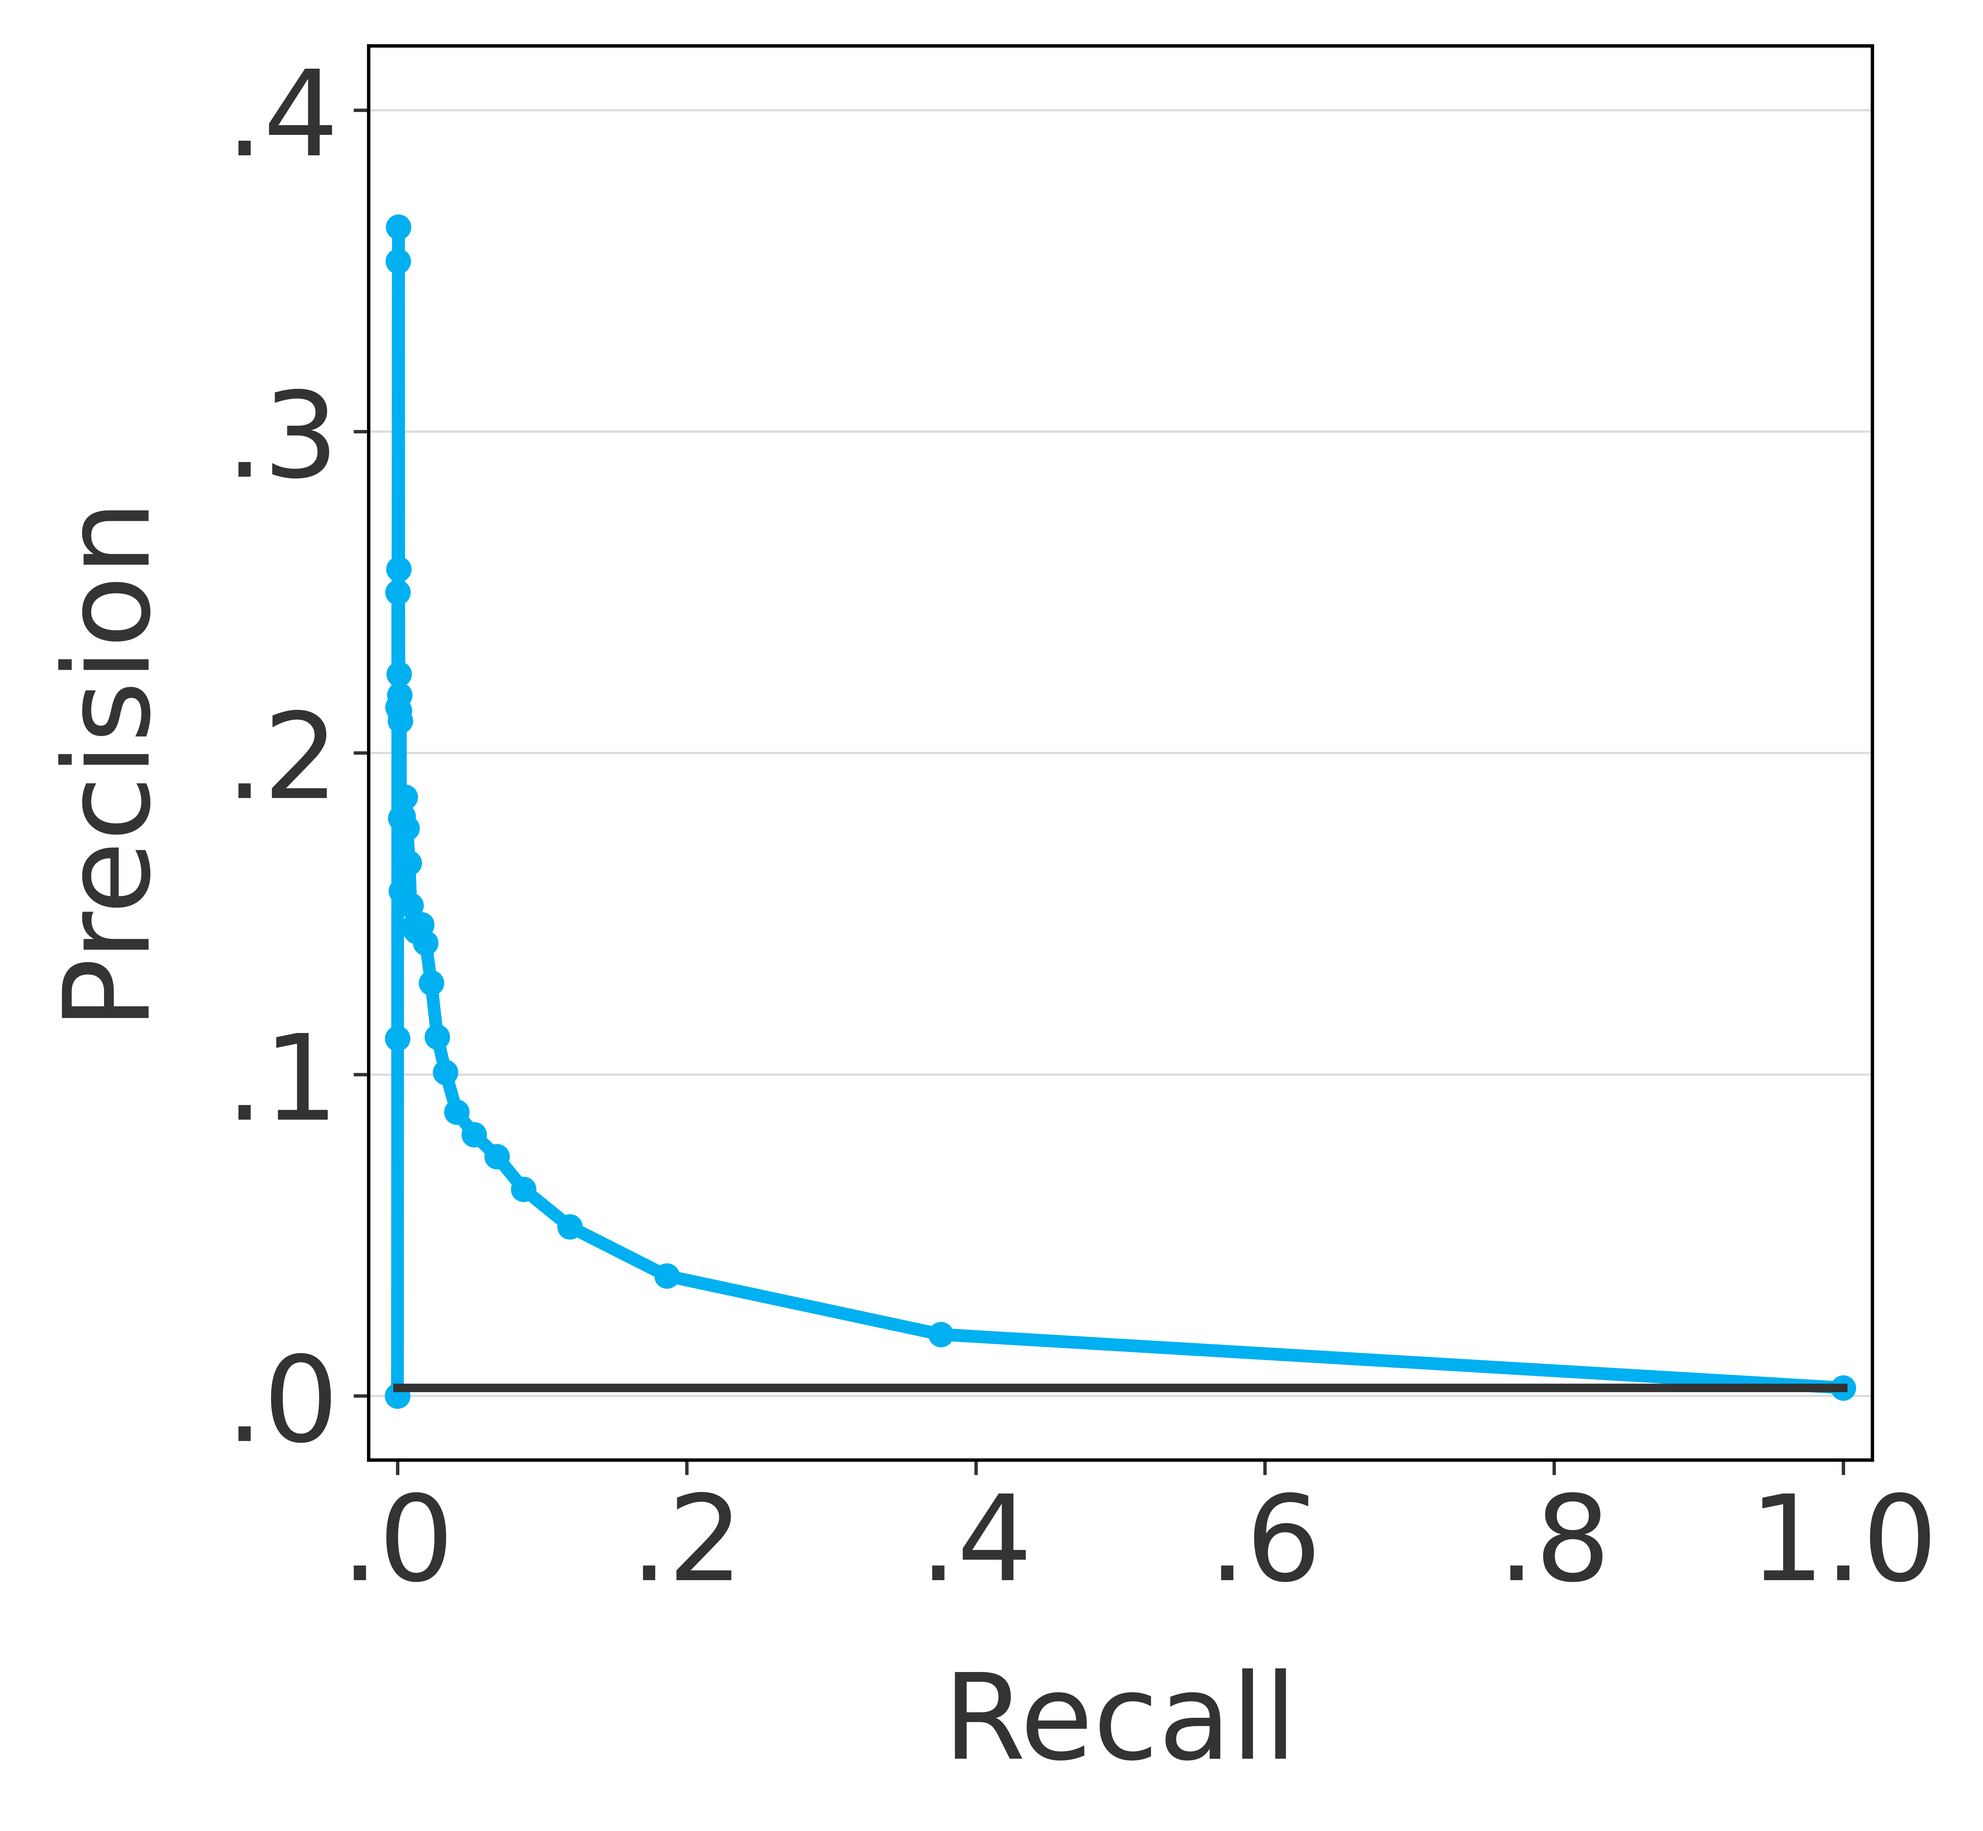
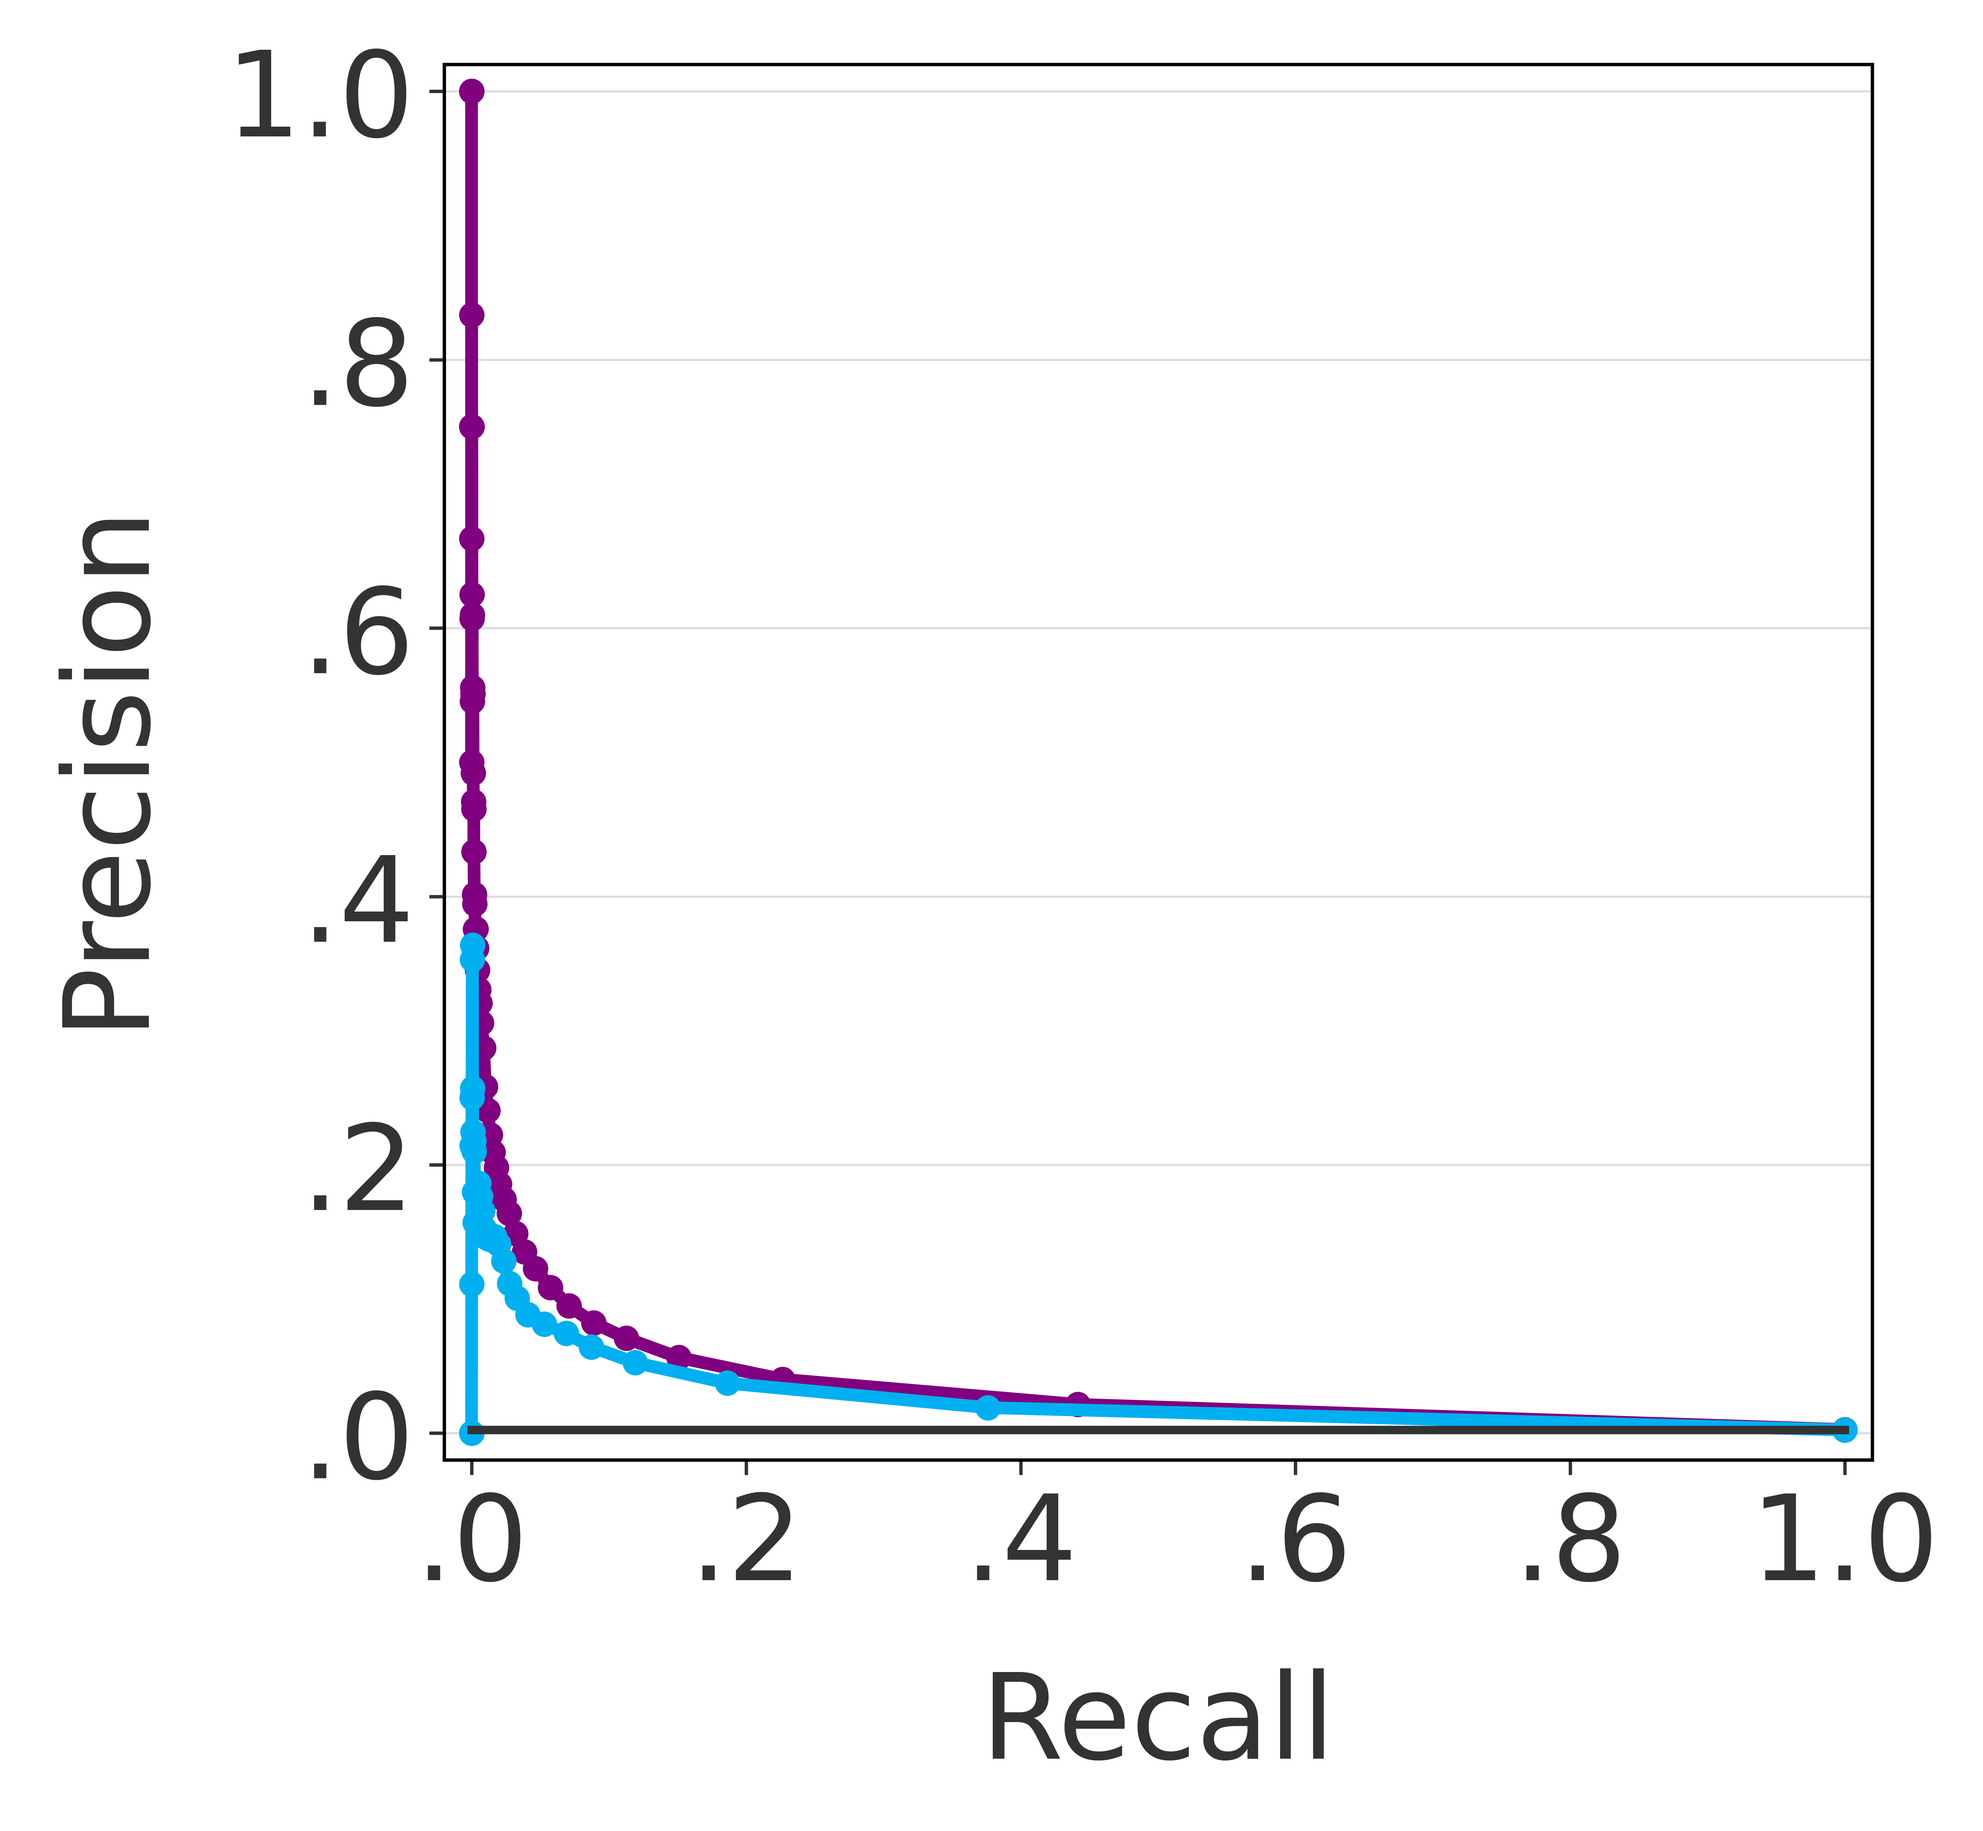
Added the plots for the training data.

Changed region(s): [[0.1249, 0.0, 0.9369, 0.8727], [0.0312, 0.2805, 0.0937, 0.561], [0.4685, 0.9038, 0.6871, 0.9662]]

diff --git a/code/plot/29_paper_verif_plots_short_fc.py b/code/plot/29_paper_verif_plots_short_fc.py
@@ -65,13 +65,17 @@ for loss_func in ["bce"]:
             os.makedirs(dir_out_temp, exist_ok=True)
 
             # Initialising the variables storing the overall scores
+            auprc_train_all = []
             auprc_test_all = []
+            aroc_train_all = []
             aroc_test_all = []
+            fb_train_all = []
             fb_test_all = []
 
             # Initialising the variables containing the distribution of forecast probabilities
             fc_prob_all = []
             fc_all = []
+            colour_all = []
             fc_prob_max_all = []
 
             # Computing the verification scores
@@ -80,44 +84,74 @@ for loss_func in ["bce"]:
                   print(f" - Plots for {ml_trained}")
 
                   # Reading the predictions and observations
+                  fc_prob_train = np.load(f"{dir_in_temp}/{ml_trained}/fc_train.npy") * 100
                   fc_prob_test = np.load(f"{dir_in_temp}/{ml_trained}/fc_test.npy") * 100
+                  obs_train = np.load(f"{dir_in_temp}/{ml_trained}/obs_train.npy")
                   obs_test = np.load(f"{dir_in_temp}/{ml_trained}/obs_test.npy")
                   prob_thr = np.load(f"{dir_in_temp}/{ml_trained}/best_thr.npy") * 100
+                  fc_train = fc_prob_train >= prob_thr
                   fc_test = fc_prob_test >= prob_thr
+
+                  fc_all.append(np.sum(fc_train) / len(fc_train) * 100)
                   fc_all.append(np.sum(fc_test) / len(fc_test) * 100)
+
+                  fc_prob_all.append(fc_prob_train)
                   fc_prob_all.append(fc_prob_test)
+
+                  fc_prob_max_all.append(np.max(fc_prob_train))
                   fc_prob_max_all.append(np.max(fc_prob_test))
 
+                  colour_all.append("#800080")
+                  colour_all.append("#00B0F0")
+
                   # Computing the contingency table
+                  h_train, fa_train, m_train, cn_train = contingency_table_probabilistic(obs_train, fc_prob_train, 100)
                   h_test, fa_test, m_test, cn_test = contingency_table_probabilistic(obs_test, fc_prob_test, 100)
                   
                   # Plotting the precision-recall curve
                   plt.figure(figsize=(6.5, 6))
+
+                  p_train = precision(h_train, fa_train)
+                  hr_train = hit_rate(h_train, m_train)
+                  ref_train = np.sum(obs_train) / len(obs_train)
+                  auprc_train_all.append(average_precision_score(obs_train, fc_prob_train))
+                  plt.plot(hr_train, p_train, "-o", color = "#800080", lw = 3, ms=5)
                   p_test = precision(h_test, fa_test)
                   hr_test = hit_rate(h_test, m_test)
                   ref_test = np.sum(obs_test) / len(obs_test)
                   auprc_test_all.append(average_precision_score(obs_test, fc_prob_test))
                   plt.plot(hr_test, p_test, "-o", color = "#00B0F0", lw = 3, ms=5)
+
                   plt.plot([0,1], [ref_test, ref_test], "-", color = "#333333", lw = 2)
                   plt.xlabel("Recall", color = "#333333", fontsize = 28, labelpad = 15)
                   plt.ylabel("Precision", color = "#333333", fontsize = 28, labelpad = 15)
                   plt.tick_params(axis='x', colors='#333333', labelsize=28)
                   plt.tick_params(axis='y', colors='#333333', labelsize=28)
                   plt.xticks(np.arange(0, 1.01, 0.2))
-                  plt.yticks(np.arange(0, 0.41, 0.1))
+                  plt.yticks(np.arange(0, 1.01, 0.2))
                   fmt = FuncFormatter(lambda val, pos: f"{val:.1f}".lstrip("0") if abs(val) < 1 else f"{val:.1f}")
                   ax = plt.gca()
                   ax.xaxis.set_major_formatter(fmt)
                   ax.yaxis.set_major_formatter(fmt)
                   plt.grid(axis='y', linewidth=0.5, color='gainsboro')
                   plt.xlim([-0.02,1.02])
-                  plt.ylim([-0.02,0.42])
+                  plt.ylim([-0.02,1.02])
                   plt.tight_layout()
                   plt.savefig(f'{dir_out_temp}/pr_curve_{ml_trained}.png', dpi=1000)
                   plt.close()
 
                   # Plotting the ROC curve - Trapezium and Continuous
                   plt.figure(figsize=(6.5, 6))           
+                  
+                  hr_train = hit_rate(h_train, m_train)
+                  far_train = false_alarm_rate(fa_train, cn_train)
+                  aroc_train = aroc_trapezium(hr_train, far_train)
+                  plt.plot(far_train, hr_train, "-o", color = "#800080", lw = 3, ms=5, label = f"{aroc_train:.3f}")
+                  far_train_c, hr_train_c, thr_roc = roc_curve(obs_train, fc_prob_train)
+                  aroc_train_c = auc(far_train_c, hr_train_c)
+                  aroc_train_all.append(aroc_train_c)
+                  plt.plot(far_train_c, hr_train_c, "-", color = "#800080", lw = 1, ms=2, label = f"{aroc_train_c:.3f}")
+                  
                   hr_test = hit_rate(h_test, m_test)
                   far_test = false_alarm_rate(fa_test, cn_test)
                   aroc_test = aroc_trapezium(hr_test, far_test)
@@ -126,6 +160,7 @@ for loss_func in ["bce"]:
                   aroc_test_c = auc(far_test_c, hr_test_c)
                   aroc_test_all.append(aroc_test_c)
                   plt.plot(far_test_c, hr_test_c, "-", color = "#00B0F0", lw = 1, ms=2, label = f"{aroc_test_c:.3f}")
+                  
                   plt.plot([0,1], [0, 1], "-", color = "#333333", lw = 1)
                   plt.xlabel("False Alarm Rate", color = "#333333", fontsize = 28, labelpad = 15)
                   plt.ylabel("Hit Rate", color = "#333333", fontsize = 28)
@@ -147,8 +182,13 @@ for loss_func in ["bce"]:
 
                   # Plotting the reliability diagram
                   fig, ax = plt.subplots(figsize=(6.5, 6))
+
+                  mean_prob_fc_train, mean_freq_obs_train, sharpness_train = reliability_diagram(obs_train, fc_prob_train)
+                  plt.plot(mean_prob_fc_train, mean_freq_obs_train * 100, "-o", color = "#800080", lw = 3, ms=5)
+
                   mean_prob_fc_test, mean_freq_obs_test, sharpness_test = reliability_diagram(obs_test, fc_prob_test)
                   plt.plot(mean_prob_fc_test, mean_freq_obs_test * 100, "-o", color = "#00B0F0", lw = 3, ms=5)
+                  
                   plt.plot([0,100], [0, 100], color = "#333333", lw = 1)
                   plt.xlabel("Forecast probability", color = "#333333", fontsize = 28, labelpad = 15)
                   plt.ylabel("Observed frequency", color = "#333333", fontsize = 28, labelpad = 20)
@@ -165,7 +205,12 @@ for loss_func in ["bce"]:
                   plt.close()
 
                   # Computing the frequency bias
+                  fb_train_all.append(np.sum(fc_train) / np.sum(obs_train))
                   fb_test_all.append( np.sum(fc_test) / np.sum(obs_test))
+
+            print(auprc_train_all)
+            print(aroc_train_all)
+            print(fb_train_all)
 
             print(auprc_test_all)
             print(aroc_test_all)

diff --git a/code/plot/30_paper_verif_plots_long_fc.py b/code/plot/30_paper_verif_plots_long_fc.py
@@ -244,6 +244,7 @@ for model_name in model_name_list:
                   fig, ax = plt.subplots(figsize=(8, 6.5))
                   plt.plot(np.arange(step_f_start, step_f_final + 1, 24), aroc_test_all, "-o", color = "#00B0F0", lw = 3, ms=5)
                   plt.plot([step_f_start, step_f_final], [0.7966, 0.7966], "--", color = "#00B0F0", lw = 3)
+                  plt.plot([step_f_start, step_f_final], [0.8223, 0.8223], "--", color = "#800080", lw = 3)
                   plt.plot([step_f_start, step_f_final], [0.5, 0.5] , "-", color = "#333333", lw = 2)
                   plt.xlabel("Lead time (hours)", color = "#333333", fontsize = 28, labelpad = 15)
                   plt.ylabel("AUC-ROC", color = "#333333", fontsize = 28, labelpad = 10)
@@ -263,6 +264,7 @@ for model_name in model_name_list:
                   fig, ax = plt.subplots(figsize=(8, 6.5))
                   plt.plot(np.arange(step_f_start, step_f_final + 1, 24), auprc_test_all, "-o", color = "#00B0F0", lw = 3, ms=5)
                   plt.plot([step_f_start, step_f_final], [0.0244, 0.0244], "--", color = "#00B0F0", lw = 3)
+                  plt.plot([step_f_start, step_f_final], [0.0336, 0.0336], "--", color = "#800080", lw = 3)
                   plt.plot([step_f_start, step_f_final], [0, 0] , "-", color = "#333333", lw = 2)
                   plt.xlabel("Lead time (hours)", color = "#333333", fontsize = 28, labelpad = 15)
                   plt.ylabel("AUC-PR", color = "#333333", fontsize = 28, labelpad = 15)
@@ -282,12 +284,16 @@ for model_name in model_name_list:
                   fig, ax = plt.subplots(figsize=(8, 6.5))
                   plt.plot(np.arange(step_f_start, step_f_final + 1, 24), fb_test_all, "-o", color = "#00B0F0", lw = 3, ms=5)
                   plt.plot([step_f_start, step_f_final], [1.2151, 1.2151], "--", color = "#00B0F0", lw = 3)
+                  plt.plot([step_f_start, step_f_final], [1.4219, 1.4219], "--", color = "#800080", lw = 3)
                   plt.plot([step_f_start, step_f_final], [1, 1] , "-", color = "#333333", lw = 2)
                   plt.xlabel("Lead time (hours)", color = "#333333", fontsize = 28, labelpad = 20)
                   plt.ylabel("FB", color = "#333333", fontsize = 28, labelpad = 15)
                   plt.tick_params(axis='x', colors='#333333', labelsize=28)
                   plt.tick_params(axis='y', colors='#333333', labelsize=28)
                   plt.xticks(np.arange(step_f_start, step_f_final + 1, 24))
+                  fmt = FuncFormatter(lambda val, pos: f"{val:.1f}".lstrip("0") if abs(val) < 1 else f"{val:.1f}")
+                  ax = plt.gca()
+                  ax.yaxis.set_major_formatter(fmt)
                   plt.grid(axis='y', linewidth=0.5, color='gainsboro')
                   plt.ylim([0,3])
                   plt.tight_layout()
